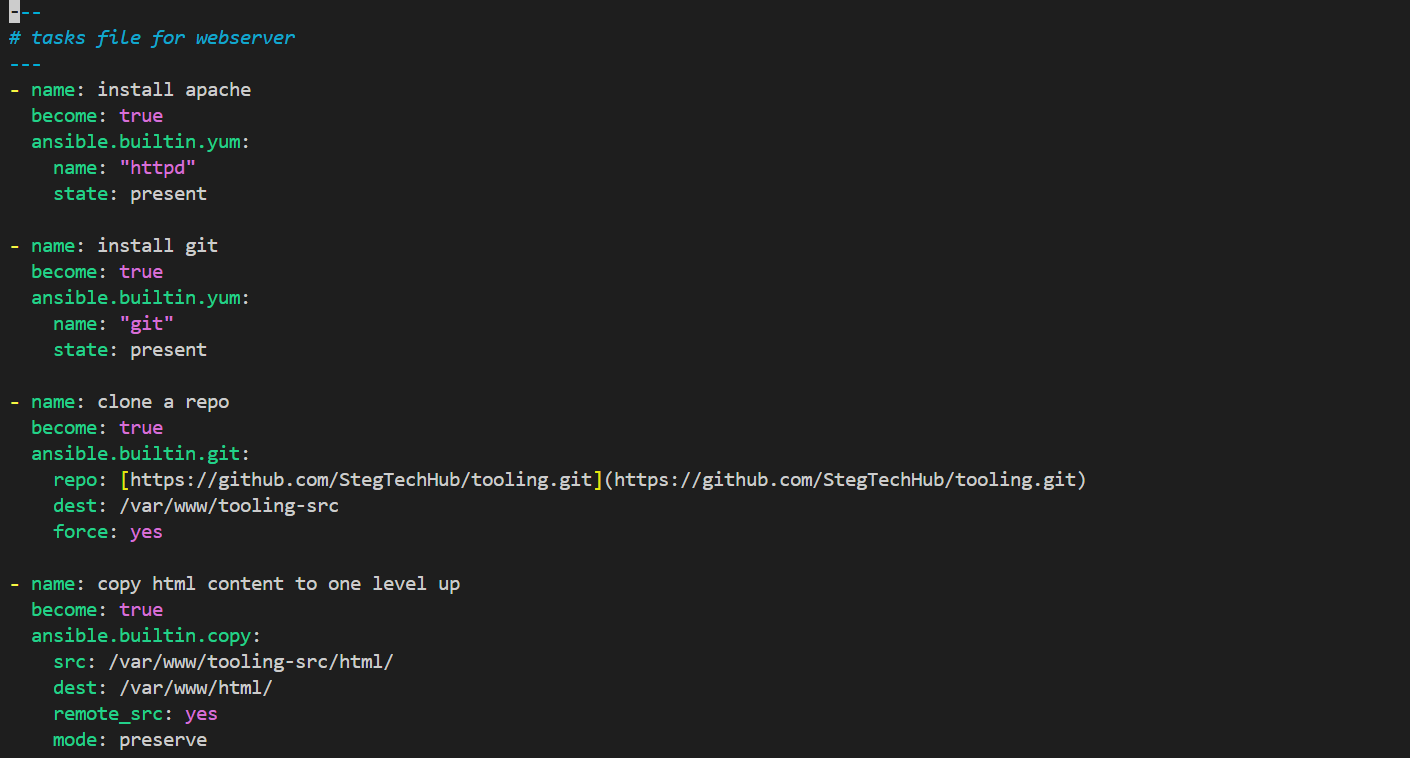
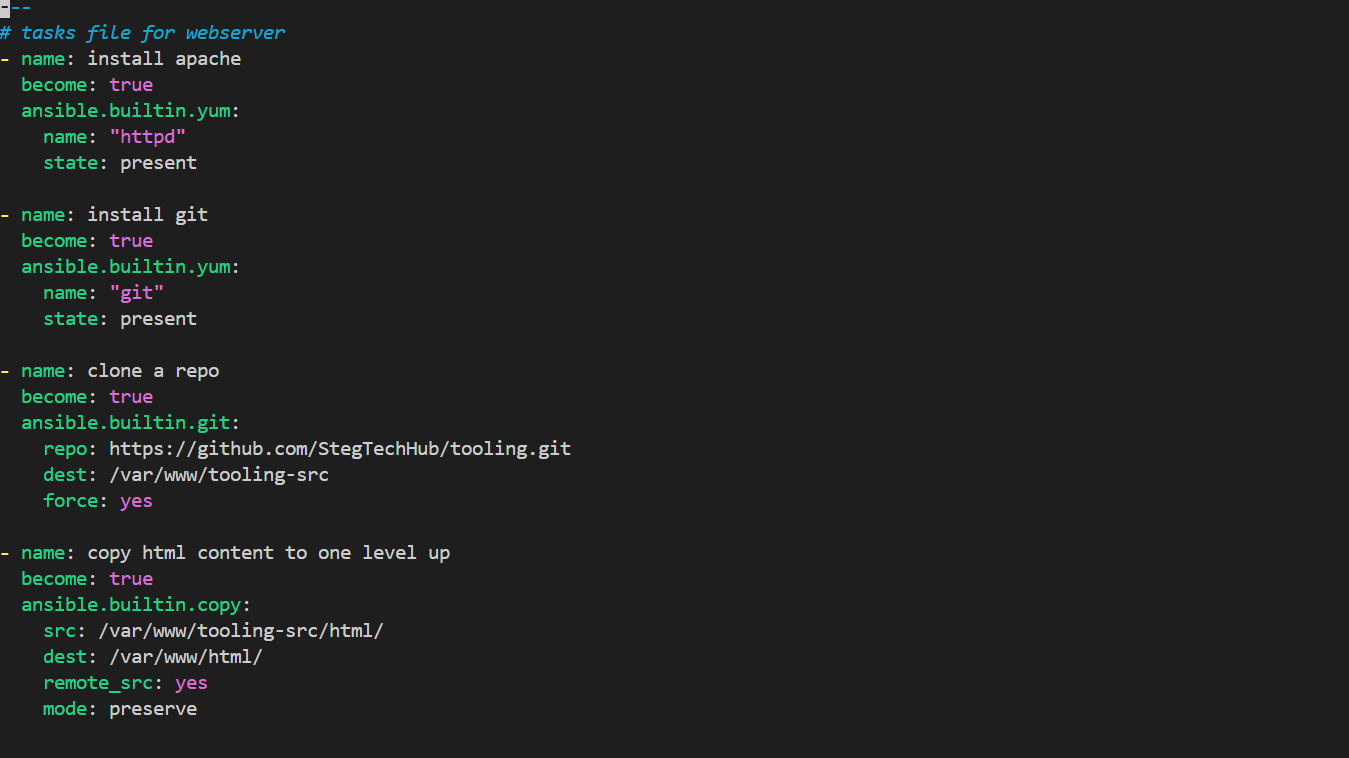
refactor(webserver): update tasks and handlers for apache, php, and git configuration

Changed region(s): [[0.0, 0.0, 0.7784, 1.0]]

diff --git a/docs.md b/docs.md
@@ -28,14 +28,27 @@ sudo mkdir /home/ubuntu/ansible-config-artifact
 6. The main idea of save_artifacts project is to save artifacts into /home/ubuntu/ansible-config-artifact directory. To achieve this, create a Build step and choose Copy artifacts from other project, specify ansible as a source project and /home/ubuntu/ansible-config-artifact as a target directory ![Screenshot](images/5.png) ![Screenshot](images/6.png) 
 7. Test the set up by making some change in README.MD file inside the ansible-config-mgt repository.![Screenshot](images/7.png)
 
-* **Issue**: The Jenkins artifact copy build failed with a java.nio.file.AccessDeniedException while attempting to access the target directory at /home/ubuntu/ansible-config-artifact. This happened because despite the target directory having 777 permissions (drwxrwxrwx), the jenkins user was blocked by the parent /home/ubuntu directory's 750 permissions (drwxr-x---),
+* **Issue:** The Jenkins build failed with a `java.nio.file.AccessDeniedException` when trying to save the artifact to `/home/ubuntu/ansible-config-artifact`. Even though the target folder had wide-open permissions (`777`), the Jenkins user was getting blocked because the parent `/home/ubuntu` folder was locked down with `750` permissions and belonged to the `ubuntu` user. 
 
-* **Solution** This was fixed by running the following command to grant traversal rights: 
-```bash
-sudo chmod o+x /home/ubuntu 
-```
-![Screenshot](images/8.png)
+* **Solution:** To get it working safely, I reassigned the target folder to the Jenkins user and gave safe traverse access on the parent `/home/ubuntu` folder so Jenkins could pass through.
+
+  1. Assign ownership to the jenkins user and group
+
+  ```bash
+  sudo chown -R jenkins:jenkins /home/ubuntu/ansible-config-artifact
+  ```
+  2. Give traverse rights on the parent home directory so Jenkins can cross the boundary
+  ```bash
+  sudo chmod o+x /home/ubuntu
+  ```
+  3. Set secure 750 permissions on the target directory
+  ```bash
+  sudo chmod 750 /home/ubuntu/ansible-config-artifact
+  ```
+  ![Screenshot](images/8.png)
+
 * **Result**: The next trigger resulted in a successful 'save_artifacts' build.
+
 ![Screenshot](images/9.png)
 
 ---
@@ -362,34 +375,108 @@ ansible-playbook -i inventory/uat.ini playbooks/site.yml
 ```
 NOTE: Before running the playbook, ensure you have tunneled into your Jenkins-Ansible server via ssh-agent
 
----
-
-Here is the updated documentation with the chronological order adjusted so that the initial diagnostic check comes first to establish the server's local state, followed by the configuration resolution and verification:
+## Issue 1: Default Index Mismatch
 
 ---
 
-### Issue 1: Default Index Mismatch
+### Part 1: Initial Manual Configuration & Troubleshooting
 
 * **Issue:** Apache was configured to look for `index.html` by default, but the web root directory (`/var/www/html`) only contained `.php` files, resulting in a `403 Forbidden` error.
 ![Screenshot](images/38.png)
 
 * **Initial Diagnostic Check:** Tested locally using `curl -i http://localhost`, which successfully returned `HTTP/1.1 200 OK`, confirming the Apache service was running locally.
-* **Resolution:** Updated the `DirectoryIndex` directive in `/etc/httpd/conf/httpd.conf` to include `index.php`. 
+* **Manual Resolution:** Manually edited the Apache configuration file (`/etc/httpd/conf/httpd.conf`) to update the `DirectoryIndex` directive to prioritize `index.php`. 
 ![Screenshot](images/39.png)
 
 Verified syntax using `sudo httpd -t` and restarted the service with `sudo systemctl restart httpd`.
-* **Results:** Apache successfully identified `index.php` as the default landing page.
+* **Results:** Apache successfully identified `index.php` as the default landing page, resolving the 403 error for the local instance.
 
 ---
 
-### Issue 2: External Network Connection Timeout
+### Part 2: Automated Solution
+
+* **The Problem with Manual Fixes:** While manual editing resolves the immediate error, it violates core IaC principles. Newly provisioned UAT servers would lack this manual adjustment and fail with the same `403 Forbidden` error.
+* **Automated Resolution:** To eliminate manual server intervention, the following configuration fix were added directly into the Ansible `webserver` role.
+  ```yaml
+  nano roles/webserver/tasks/main.yml
+  ```
+  * **PHP Runtime Provisioning:** Uses `ansible.builtin.yum` to install `php`, `php-mysqlnd`, `php-fpm`, and `php-json` so fresh stock servers can execute PHP application code.
+Add this task to roles/webserver/tasks/main.yml, insert the block below right after the install apache task:
+
+  ```yaml
+  - name: install php and required modules
+    become: true
+    ansible.builtin.yum:
+      name:
+        - php
+        - php-mysqlnd
+        - php-fpm
+        - php-json
+      state: present
+    notify: restart httpd
+  ```
+  * **Apache Configuration Management:** Implemented the `ansible.builtin.lineinfile` module to programmatically configure the `DirectoryIndex` directive in `/etc/httpd/conf/httpd.conf`:
+
+  ```yaml
+  ---
+  - name: Ensure DirectoryIndex prioritizes index.php in Apache configuration
+    ansible.builtin.lineinfile:
+      path: /etc/httpd/conf/httpd.conf
+      regexp: '^(\s*DirectoryIndex\s+)'
+      line: 'DirectoryIndex index.php index.html'
+      state: present
+    become: true
+    notify: restart httpd
+
+  ```
+  ![Screenshot](images/40a.png)
+  ![Screenshot](images/40b.png)
+
+
+* **Handler (`roles/webserver/handlers/main.yml`):** Configured a handler to restart Apache conditionally only when the configuration file changes:
+
+  ```yaml
+  nano roles/webserver/handlers/main.yml
+
+  ```
+  ```yaml
+  - name: restart httpd
+    ansible.builtin.service:
+      name: httpd
+      state: restarted
+    become: true
+
+  ```
+  ![Screenshot](images/41.png)
+
+Now run the playbook
+
+```bash
+ansible-playbook -i inventory/uat.ini playbooks/site.yml
+```
+![Screenshot](images/42.png)
+
+Re-run the playbook to prove idempotency
+
+![Screenshot](images/43.png)
+
+After the task was updated with the php and dependencies installation block, below is the visual display of the run and rerun to prove idempotence: 
+
+![Screenshot](images/44.png)
+![Screenshot](images/45.png)
+
+* **Results:** Ansible now automatically and idempotently updates the configuration file on any target deployment, ensuring that Apache prioritizes `index.php` without requiring any manual server adjustments.
+---
+---
+
+## Issue 2: External Network Connection Timeout
 
 * **Issue:** Incoming web traffic on port 80 was blocked at the network level, preventing external access while local server requests succeeded.
 * **Error Message:** `ERR_CONNECTION_TIMED_OUT` ("took too long to respond") in the browser / `curl: Failed to connect to port 80: Connection timed out` when running `curl -i http://<public-ip>`.
 * **Resolution:** Opened the AWS EC2 console and added an inbound security group rule for HTTP traffic on Port 80 (`0.0.0.0/0`).
 * **Results:** External requests from the browser and remote clients successfully reached the EC2 instance and loaded the application.
 ---
-### Issue 3: Browser Protocol Mismatch
+## Issue 3: Browser Protocol Mismatch
 
 * **Issue:** The web browser automatically attempted to secure the connection using an unconfigured protocol(https).
 * **Error Message:** Connection refused / site cannot be reached via HTTPS.
@@ -419,13 +506,8 @@ This confirms that Ansible makes zero state modifications when the actual infras
 
 This project successfully refactored the Ansible codebase into a modular, maintainable architecture leveraging roles and static assignments. By breaking monolithic playbook logic into isolated role tasks under `roles/webserver/` and importing them via `playbooks/site.yml`, the environment can now scale efficiently across diverse infrastructure stages.
 
-Key outcomes included:
+The Ansible architecture now looks like this:
+![Screenshot](images/refactor-architecture.png)
 
-* **Pipeline Integration:** Validated automated webhook deployment via Jenkins to streamline configuration delivery from GitHub to the Ansible controller.
-* **Defensive Task Design:** Identified and resolved a source repository misconfiguration during initial testing.
-* **Idempotency Standards:** Replaced non-idempotent shell execution paths with checksum-aware modules (`ansible.builtin.copy`), guaranteeing predictable convergence on repeated runs.
-* **Least-Privilege Security:** Standardized control node permissions to `750` with `jenkins:jenkins` ownership rather than permissive `0777` access models.
 
-```
 
-```
